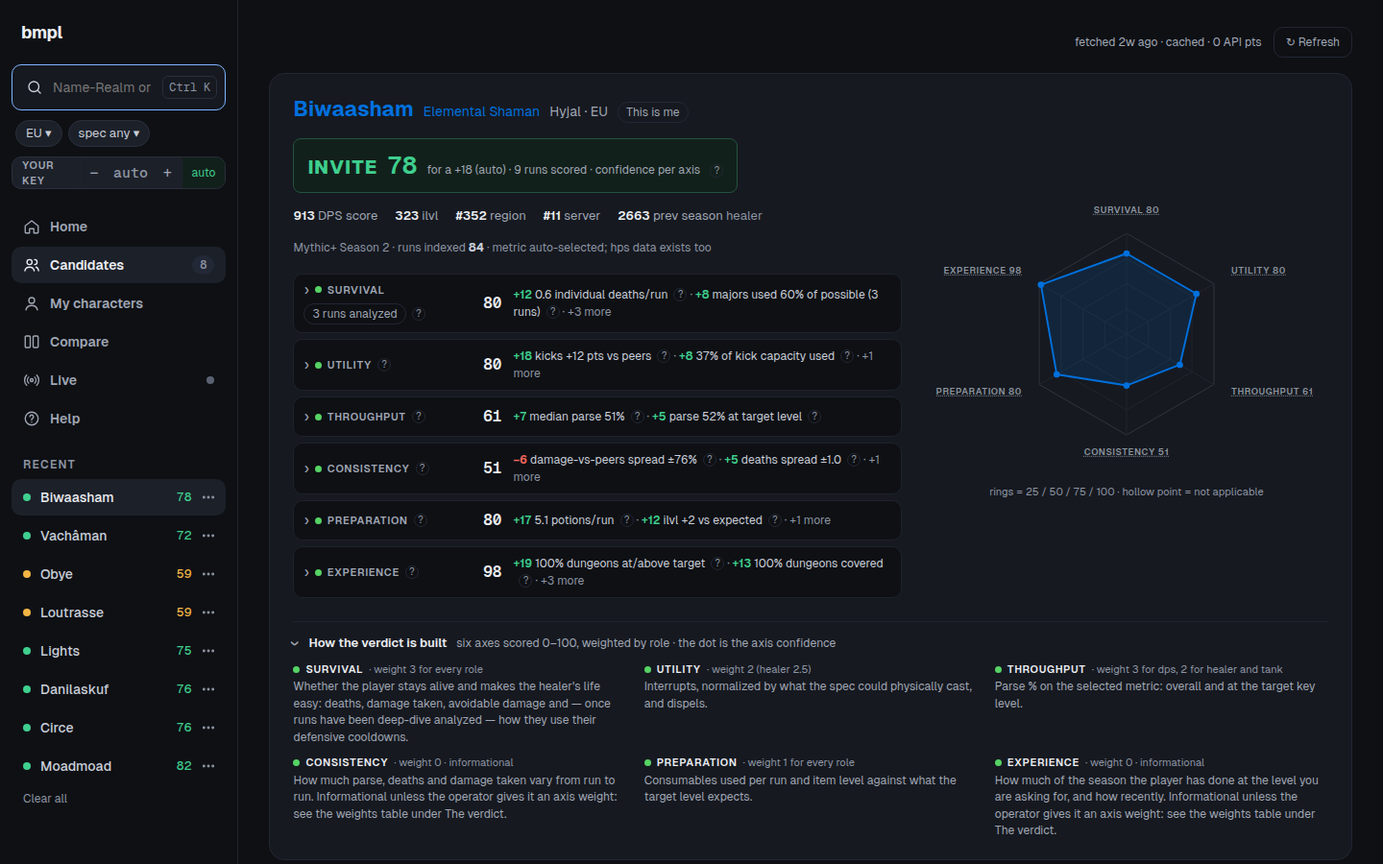
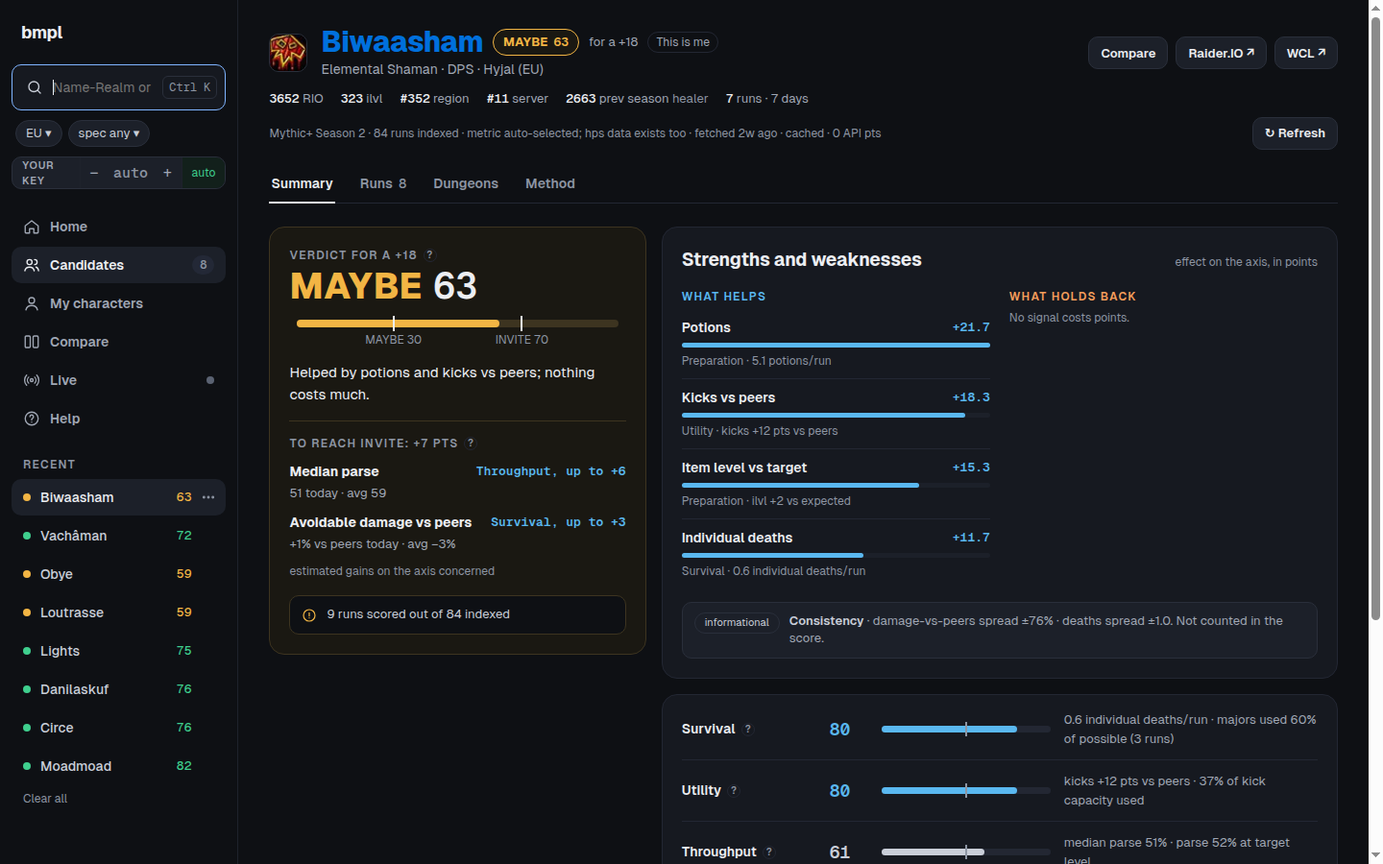
docs: redesign phase 2
Spec status and "Phase 2 notes" (the plan's five deltas, cached analyses
and re-evaluation on every history read with the row's verdict/score
following, class/spec names English in the French UI); web-front.md maps
components/candidate/, the phase 2 view models and the candidate URL
state; AGENTS.md roadmap. README screenshots retaken from a local build
on cached data (Summary tab; Runs tab with an analysed run on the
timeline) with alt texts for five axes.

Claude-Session: https://claude.ai/code/session_01GbKBtx9kHiwVNWMkxiP94m

diff --git a/docs/agents/web-front.md b/docs/agents/web-front.md
@@ -6,7 +6,7 @@ Vite 8 + React 19, TypeScript strict with `verbatimModuleSyntax`. Spec: `docs/su
 
 - **Types only from `src/`**: `import type { … } from "@shared/…"` via `web/src/types.ts` (re-export hub — add new shared types there). Runtime exception: `src/wow/classes.ts` (class names + colours). Anything else runtime from `src/` breaks the Vite build or drags Bun-only code into the browser. `web/src/lib/admin.ts`'s `AUDIT_KIND_OF` is a deliberate duplicate of `src/hosted/audit.ts`'s `ACTION_KIND` — the types-only rule means the front cannot import the runtime map, so it re-declares it (TypeScript catches a missing `AuditAction` key since the type comes from `@shared/…`; keep the two in sync by hand when an action is added).
 - **No new runtime dependencies**: only `react` and `react-dom`. No router (the page is `pageOf(location.pathname)`, each page a full navigation; the profile shown derives from tabs/history state in `App.tsx`), no state library, no CSS framework, no component library, no icon package.
-- **View models are pure and tested** (`web/src/lib/*.ts` + sibling `*.test.ts`): every non-trivial transformation of `LookupPayload` into something displayable lives there — `verdict.ts` (axis order/labels, confidence colours), `axes.ts` (`AxisRowModel`; `axisInfo`/`axisWeightLabel` turn `GET /api/docs?lang=` into the "What's measured" callout text and weight line — nothing about weights or sub-signals is hard-coded in the front; `web/src/docs.tsx` `DocsProvider`/`useDocs` fetches it once per page load and again whenever the UI locale changes, keeping the previous language's docs up while the next ones load), `radar.ts`, `tiles.ts`, `runs.ts`, `deepdive.ts` (panel model, cost estimate), `compare.ts`, `history.ts`, `keyLevel.ts`, `format.ts`, `session.ts` (user menu / quota line), `help.ts` (`/help` view models: `anchorOf`, `toc`, `curveTable`, `curvePath`, `roleWeights`, `axisIsInformational`, `fmtThresholds`, `faqEntries`, `axisNote`), `hostedMode.ts` (controls, `pageOf`/`Page` for `/`, `/candidate`, `/compare`, `/live`, `/settings`, `/privacy`, `/help`, `/me` and `/admin`, `candidateHref`, `proposalMode`, `adminAccess`, `accountAccess`, `deniedNotice`/`signInNote` for the four sign-in refusals), `account.ts` (issue #11: `clientCard(t, …)` — the WCL-client card's state/status/dot from `OwnClientView`, `canDelete`/`DELETE_WORD` for the typed-word confirmation, `storedDataText(t)`), `quota.ts` (labels, tooltips, 429 bodies and their toast message `quotaOrBudgetMessage(t, failure)`), `regions.ts` (the front's own copy of `src/wow/regions.ts`'s values: `REGIONS`, `isRegion`, `regionLabel`, `effectiveRegion`), `suggest.ts` (the search field's suggestions, canvas "suggest", `SuggestChosen`: `suggestionsOf` merges My characters, history newest first and, locally, `GET /api/known-characters` into one row per character with its class, spec, `fill` ("Name-Realm" rebuilt from the slug, the realm's spaces kept; Raider.IO's spelling is only shown, never filled) and newest `historyKey`; `matchSuggestions` (name prefix, or that name on realms starting with what follows the first "-" or space; no list under 2 letters, for a Raider.IO link or the full Name-Realm of the only row left; 8 rows), `ghostOf` (the grey completion), `typedNameLength`, `classLine`), `header.ts` (the chips under the sidebar's search field: `regionMenu`/`specMenu`/`OTHER_SPEC`, `regionChipLabel`/`specChipLabel`; the EN / FR chip's `localeMenu`), `shell.ts` (the frame: `navItems` — the six links, the candidate count, the Live dot — `recentRows` (Récents = history, verdict dot and score from the history row), `recentList` (the sidebar's Récents: the first 8, the active entry as an extra row when further down, the whole history when expanded), `accountView`), `palette.ts` (the Ctrl K palette: `paletteSections` — recent characters, My characters, actions, filtered by the query; a lookup row never shows a cost — `moveIndex`, `rowAt`), `home.ts` (the connected home page: `homeSelf` — this week, strengths / costs, best timed key per week — `progressText`, `progressPoints`, `scoreTone`, `candidateRows`), `landing.ts` (`landingView`: notices, steps, facts; `PREVIEW_AXES`, the static preview), `admin.ts` (budget gauge, top consumers, hourly bars, proposal cards/diff rows, decided lines, user/invite rows incl. `bannedAt`/`ownClient`, instance panel, `auditRow`/`auditDetail` for the Audit section incl. `account_delete`/`wcl_client_set`/`wcl_client_remove`/`bnet_link`/`bnet_unlink`/`bnet_character_removed`/`characters_reset`/`user_ban`/`user_unban`), `self.ts` (the self-review result tabs, spec `docs/superpowers/specs/2026-10-09-self-review-pillars-design.md`: `PILLAR_ORDER`, `RESULT_TABS`, `scoreBand` (75 / 55 / 45), `trendView`, `pillarCards` — the 4-week window's pillars, else the lookup's own `evaluation.pillars` — `basisText`, `workOnRows`, `verdictLine`, `headLine`, `seasonHeader`/`dungeonRows`/`dungeonPanel` for the Dungeons grid, `runOf`/`runDetail` for the Runs tab, `syncCard`/`syncProgress` (`controlOnly`: a season synced before crowd control existed only needs it), `controlView` (a run's crowd control, canvas "control" run detail B), `resultView` (owner's view or vetting view), and "This is me": `MAX_ME`, `isMe`, `toggleMe`, `meChip`), `me.ts` (the personal page: `parseEntry` — Name-Realm or a Raider.IO link — `addCharacter`/`makeMain`/`removeAt`, `historyKeyFor` (the newest history tab of a character), `lookupQuery`, `mineRequest` (whether a typed Name-Realm or Raider.IO link is one of My characters: `runLookup` sends it as the lookup's `mine`), `seasonLine`, `mainPillars`, `rowCells`, and `slugOf`, the front's copy of `src/util.ts`'s `realmToSlug`, pinned on the same samples by `me.test.ts`), `bnet.ts` (Battle.net linking on `/me`, spec `docs/superpowers/specs/2026-10-11-battlenet-linking-design.md`: `BNET_CODES` — the server's `BnetCallbackCode`s, pinned to the same set by `bnet.test.ts` — and `bnetCodeOf` (`?bnet=`, read at module level in `App.tsx` before the boot effect erases the query), `bnetNotice`/`pickFailureNotice` (the spec's "Error handling" wording, the pick's 410 as `expired`), `pickKey` (region + Blizzard id), `togglePick` (tick order, the first is the main, null when 20 are ticked), `makeMainPick`, `pickerRows`, `pickHeader`, `pickCount`, `saveLabel`, `picksBody` (the `PUT /api/bnet/characters` body), `picksFromList` ("Import again" ticks the list's Battle.net characters still in the import), `linkedLine`, `unlinkConfirm`, `removedNotice` (the 30-day check's removals)). Components (`web/src/components/*.tsx`) stay thin: map a model to markup, hold local UI state only. Tests must not import React or the DOM (they run under `bun test` from the repo root). The registry `src/evaluation/docs.ts` must be updated with any new sub-signal — `test/evaluation/docs.test.ts` enforces it.
+- **View models are pure and tested** (`web/src/lib/*.ts` + sibling `*.test.ts`): every non-trivial transformation of `LookupPayload` into something displayable lives there — `verdict.ts` (axis order/labels, confidence colours), `axes.ts` (`AxisRowModel`; `axisInfo`/`axisWeightLabel` turn `GET /api/docs?lang=` into the "What's measured" callout text and weight line — nothing about weights or sub-signals is hard-coded in the front; `web/src/docs.tsx` `DocsProvider`/`useDocs` fetches it once per page load and again whenever the UI locale changes, keeping the previous language's docs up while the next ones load), `radar.ts`, `tiles.ts`, `runs.ts`, `deepdive.ts` (panel model, cost estimate), `compare.ts`, `history.ts` (incl. `withPayloadSummary`: a loaded payload's re-evaluated verdict/score patched into its Récents item), `keyLevel.ts`, `format.ts`, `session.ts` (user menu / quota line), `help.ts` (`/help` view models: `anchorOf`, `toc`, `curveTable`, `curvePath`, `roleWeights`, `axisIsInformational`, `fmtThresholds`, `faqEntries`, `axisNote`), `hostedMode.ts` (controls, `pageOf`/`Page` for `/`, `/candidate`, `/compare`, `/live`, `/settings`, `/privacy`, `/help`, `/me` and `/admin`, `candidateHref`, `proposalMode`, `adminAccess`, `accountAccess`, `deniedNotice`/`signInNote` for the four sign-in refusals), `account.ts` (issue #11: `clientCard(t, …)` — the WCL-client card's state/status/dot from `OwnClientView`, `canDelete`/`DELETE_WORD` for the typed-word confirmation, `storedDataText(t)`), `quota.ts` (labels, tooltips, 429 bodies and their toast message `quotaOrBudgetMessage(t, failure)`), `regions.ts` (the front's own copy of `src/wow/regions.ts`'s values: `REGIONS`, `isRegion`, `regionLabel`, `effectiveRegion`), `suggest.ts` (the search field's suggestions, canvas "suggest", `SuggestChosen`: `suggestionsOf` merges My characters, history newest first and, locally, `GET /api/known-characters` into one row per character with its class, spec, `fill` ("Name-Realm" rebuilt from the slug, the realm's spaces kept; Raider.IO's spelling is only shown, never filled) and newest `historyKey`; `matchSuggestions` (name prefix, or that name on realms starting with what follows the first "-" or space; no list under 2 letters, for a Raider.IO link or the full Name-Realm of the only row left; 8 rows), `ghostOf` (the grey completion), `typedNameLength`, `classLine`), `header.ts` (the chips under the sidebar's search field: `regionMenu`/`specMenu`/`OTHER_SPEC`, `regionChipLabel`/`specChipLabel`; the EN / FR chip's `localeMenu`), `shell.ts` (the frame: `navItems` — the six links, the candidate count, the Live dot — `recentRows` (Récents = history, verdict dot and score from the history row), `recentList` (the sidebar's Récents: the first 8, the active entry as an extra row when further down, the whole history when expanded), `accountView`), `palette.ts` (the Ctrl K palette: `paletteSections` — recent characters, My characters, actions, filtered by the query; a lookup row never shows a cost — `moveIndex`, `rowAt`), `home.ts` (the connected home page: `homeSelf` — this week, strengths / costs, best timed key per week — `progressText`, `progressPoints`, `scoreTone`, `candidateRows`), `landing.ts` (`landingView`: notices, steps, facts; `PREVIEW_AXES`, the static preview), the candidate profile's models (redesign phase 2, plan `docs/superpowers/plans/2026-10-12-ui-redesign-phase-2.md`): `profile.ts` (the URL state `candState`/`candHref`/`candSwitchHref`/`candInitial`, `runKeyOf`, `tabAfter` for the tab strip's keys, `CAND_TAB_EVENT`, `compareHref`, and `profileHeader` — the compact header's name, verdict, facts and links), `synthesis.ts` (`synthesisView`: the verdict block, "what would flip it", strengths and weaknesses, the informational axes, the axes table; an axis whose role weight is 0 is informational and never a strength, a weakness or a step), `runList.ts` (`runListView`: one grid row per run, the two filters "best" / "deaths", the sort, the batch-analyse line; `pickRun`), `timeline.ts` (`timelineView`: the track, one lane per ticked layer, the callout and "Moments clés"; `LAYER_ORDER`, `DEFAULT_LAYERS`, `stepEvent`/`shownEvent` for the arrow keys and the picked death), `runView.ts` (`runDetail`: the selected run's header, stats, defensives used / possible), `runSheet.ts` (`sheetRuns`, `sheetLayout` — 72 % of the viewport, ≥ 960 px when it allows, the list at its left when 240 px remain — `trapFocus`, `sheetTabAfter`), `dungeonGrid.ts` (`dungeonGrid`: one row per dungeon's best run with heat-tinted two-line cells, the inline detail, the notes strip), `method.ts` (`methodView`: the path, the raw-score waterfall, the axis cards against the average player, the raw → percentile curve with the verdict zones, `rawScore`, `curveGeometry`; everything from `GET /api/docs`), `admin.ts` (budget gauge, top consumers, hourly bars, proposal cards/diff rows, decided lines, user/invite rows incl. `bannedAt`/`ownClient`, instance panel, `auditRow`/`auditDetail` for the Audit section incl. `account_delete`/`wcl_client_set`/`wcl_client_remove`/`bnet_link`/`bnet_unlink`/`bnet_character_removed`/`characters_reset`/`user_ban`/`user_unban`), `self.ts` (the self-review result tabs, spec `docs/superpowers/specs/2026-10-09-self-review-pillars-design.md`: `PILLAR_ORDER`, `RESULT_TABS`, `scoreBand` (75 / 55 / 45), `trendView`, `pillarCards` — the 4-week window's pillars, else the lookup's own `evaluation.pillars` — `basisText`, `workOnRows`, `verdictLine`, `headLine`, `seasonHeader`/`dungeonRows`/`dungeonPanel` for the Dungeons grid, `runOf`/`runDetail` for the Runs tab, `syncCard`/`syncProgress` (`controlOnly`: a season synced before crowd control existed only needs it), `controlView` (a run's crowd control, canvas "control" run detail B), `resultView` (owner's view or vetting view), and "This is me": `MAX_ME`, `isMe`, `toggleMe`, `meChip`), `me.ts` (the personal page: `parseEntry` — Name-Realm or a Raider.IO link — `addCharacter`/`makeMain`/`removeAt`, `historyKeyFor` (the newest history tab of a character), `lookupQuery`, `mineRequest` (whether a typed Name-Realm or Raider.IO link is one of My characters: `runLookup` sends it as the lookup's `mine`), `seasonLine`, `mainPillars`, `rowCells`, and `slugOf`, the front's copy of `src/util.ts`'s `realmToSlug`, pinned on the same samples by `me.test.ts`), `bnet.ts` (Battle.net linking on `/me`, spec `docs/superpowers/specs/2026-10-11-battlenet-linking-design.md`: `BNET_CODES` — the server's `BnetCallbackCode`s, pinned to the same set by `bnet.test.ts` — and `bnetCodeOf` (`?bnet=`, read at module level in `App.tsx` before the boot effect erases the query), `bnetNotice`/`pickFailureNotice` (the spec's "Error handling" wording, the pick's 410 as `expired`), `pickKey` (region + Blizzard id), `togglePick` (tick order, the first is the main, null when 20 are ticked), `makeMainPick`, `pickerRows`, `pickHeader`, `pickCount`, `saveLabel`, `picksBody` (the `PUT /api/bnet/characters` body), `picksFromList` ("Import again" ticks the list's Battle.net characters still in the import), `linkedLine`, `unlinkConfirm`, `removedNotice` (the 30-day check's removals)). Components (`web/src/components/*.tsx`) stay thin: map a model to markup, hold local UI state only. Tests must not import React or the DOM (they run under `bun test` from the repo root). The registry `src/evaluation/docs.ts` must be updated with any new sub-signal — `test/evaluation/docs.test.ts` enforces it.
 - **`web/src/lib/live/`** (game-integration spec: `docs/superpowers/specs/2026-09-22-game-integration-design.md`) is the Live panel's own pipeline, each file pure and tested: `codec.ts` (`STRIP`, `encodeFrame`/`decodeFrame`, `encodeCells`/`decodeCells`, `chunkRoster` — the strip contract shared byte-for-byte with the addon's `addon/bmpl/encode.lua`, pinned by `addon/bmpl/tests/vectors.txt`), `scan.ts` (reads a captured video frame's pixels into cells — thresholds are measured, never fixed: a local light/dark envelope finds the marker, the marker's own levels read the cells, so the addon can paint two greys), `roster.ts` (`parseRoster`, `RosterAssembler`, `sortApplicants`/`filterApplicants`, the `RosterPlayer`/`Roster`/`CachedVerdict` types), `panel.ts` (`panelView`, `autoQueue`, `verdictScope` — the (key level, region) pair a cached verdict belongs to, which `App.tsx` uses to empty the verdict map when the member moves their key — and the sort/class `ChipMenu` rows), `useWowCapture.ts` (the capture hook: `getDisplayMedia`, the scan loop, `liveState` deriving the chip's off/waiting/live/reconnect/error states). Consumed by `LiveChip.tsx` (the `/live` page header's chip + connect dialog) and `LivePanel.tsx` (the roster view), both thin per the rule above.
 - **Tokens** from `web/src/styles/tokens.css` (`--bg --card --inset --border --text --muted --faint --link --green --yellow --warn --red --orange --button --mono --radius --radius-lg` …). Never a raw hex in a component or in `app.css`; if a new value is genuinely needed, add a token with a comment saying where it came from. `--discord` is the only brand colour, used on the sign-in button only.
 - **English and French, from the dictionaries.** Copy is product text: short, factual, no exclamation marks. See "Strings and locales" below.
@@ -74,8 +74,8 @@ left, `.shell-main` beside it, whose `.shell-content` column is at most 1120 px 
 comparison is shown (`:has(.content-result)`: 1200 px, 1640 px in `:root:has(.content-result)`). At 1000 px and below
 the sidebar stacks above the content (flex wrap: no sticky, no `100vh`). The connected home page (`HomePage`) and the
 landing are outside the frame and have their own centred column. No page may scroll horizontally (spec decision 8);
-phase 1 left the old content views (radar, run rows, compare table, help tables) as they were, and phases 2–4
-redraw them. Inside the result page: three tabs (Overview, Dungeons, Runs); the Overview stacks the verdict block,
+phase 1 left the old content views (radar, run rows, compare table, help tables) as they were; phase 2 redrew
+the candidate profile (grids that fit their column, rows stacked into cards at 390 px), phases 3–4 redraw the rest. Inside the result page: three tabs (Overview, Dungeons, Runs); the Overview stacks the verdict block,
 then the signal tiles and Raider.IO (`.overview-rest`); the Dungeons tab puts the grid beside its detail panel
 (`.side`, 440 px) and stacks them under 1100 px, where the pillar cards drop to two columns. `--gutter` is 0 inside
 the frame.
@@ -84,4 +84,4 @@ the frame.
 
 **Pages** (no router: `pageOf(location.pathname)`, each a full navigation served by `src/web-static.ts`): `/` the connected home page, `/candidate` (the result page; `?open=<history key>` names the profile, Récents and the palette switch profiles in place with `history.replaceState`; a pre-redesign `/?open=` link is redirected here), `/compare` (pick 2–3 history entries), `/live` (the Live panel; Live and the candidate page are the two pages that switch profiles in place, everything else navigates to `/candidate`), `/me`, `/help`, `/settings`, `/privacy`, `/admin`. A URL never starts a lookup: `?q=` only fills the search field.
 
-`Shell` (`components/shell/*`, redesign spec decision 1, mockup `F-Palette`: the frame around every in-app page; one window `keydown` opens the palette on Ctrl K / Cmd K unless another text field has focus) · `Sidebar` (logo; the 48 px search form — `SearchInput`: the field, its grey completion (Tab) and the suggestion list (↑↓, Enter opens the row: its history tab at 0 pts, else a lookup in the row's region; Esc closes), the arrow submit or the Ctrl K hint when empty; under it the region and spec chips (`ChipMenu`), the metric chip, `KeyStepper` (your key), the "Other…" spec / metric row, the busy and SSE-disconnected notes; the navigation from `navItems` — Home, Candidates with the history count, My characters, Compare, Live with its dot, Help; **Récents** (`recentList`: verdict dot, name, score, a "⋯" menu with Remove; "Show N more" / "Show less" past 8, Clear all); the account block: hosted `UserMenu` — avatar, quota (or "Your WCL client · N / L pts" when the member has one) or the exhausted line, Help, My characters, Settings, Admin, Sign out — locally `LocalAccount` — the EN / FR chip, the clipboard watch, Re-configure, Quit) · `Palette` (the Ctrl K dialog: `paletteSections`, ↑↓ across sections, Enter runs the row — open a history entry at 0 pts, look a character up, or go to a page — Escape or a click outside closes and focus returns) · `HomePage` (`components/home/HomePage.tsx`, decision 2, mockup `F-Accueil`, outside the frame: slim top bar with the account controls (`LocalAccount compact` locally), split hero — search with its region chip, and "You this week" for the main character (`useSeason`, 0 pts: runs, best timed key, timed / scored, the points to work on, the group-leader verdict line from the history row) — then "Your progress" (`homeSelf`'s pillars, strengths, costs and the best-timed-key line) beside "Your candidates" (`candidateRows`), then the other characters; it reads only, a lookup starts from its search field alone) · `Landing` (`components/Landing.tsx`, mockup `F-Landing`: a signed-out visitor of a hosted instance — `GET /api/me` 401 — sees it instead of the app; the Discord sign-in, the callback's refusals from `deniedNotice` — invite id with its copy button, guild, banned, rate — and `?login=failed`, three steps, a static preview built from markup (no fetch, Consistency marked informational), the WCL points and data facts; locally there is no landing) · `ChipMenu` (`lib/header.ts`'s `MenuItem[]` mapped to a popup menu that closes on pick/outside click/Escape) · `Detail` picks the view with `resultView` (phase-2 spec `docs/superpowers/specs/2026-10-10-self-review-control-design.md`, decision 6): a character outside My characters opens the **vetting view**, the result page as before phase 1 (`VerdictHero` with `MeChip` at the end of its name line through `identityExtra` — canvas "control", `ControlVettingA`; local mode only, since hosted characters come from Battle.net and `meChip` returns null for one not on the list, canvas "bnet" chip 1 — then `.detail-rest`: `SignalTiles`, `DungeonRuns`, `RioSection`; no `GET /api/season`); one of the member's own characters opens the **owner's view** (canvas "self-review", variants A + C) = `ResultHead` (`components/self/*`: name, realm, `MeChip` ("This is me"), the season line, the sync button) + `SyncCard` (estimate before spending, progress, the no-client guide when hosted) + three tabs: **Overview** (`Overview`: work on first, the five pillar cards, the verdict line, then `VerdictHero` — verdict, radar, `ScoreDrivers` — the diverging-bar "What makes this score" block, `AxisRows` with expandable "What's measured" callouts, `AxisLegend` under the radar — then `SignalTiles` and `RioSection`), **Dungeons** (`DungeonsTab`: the season header row and one row per dungeon, five pillar cells and the overall — the axes' weighted mean before the percentile curve (`WindowView.overall`), not the badge score — beside `DungeonPanel`: what hits, what kills, what went through, the crowd control landed there, a link to that dungeon's runs), **Runs** (`RunsTab`: `DungeonRuns` — best run per dungeon, per-run Analyze / `RunDeepDive` panel with table corrections; hosted wording and proposals footer — until the season store has runs, then every run of the season newest first, old runs marked stale, `RunDetailExtra` for killing hits, avoidable abilities, casts that went through and the run's crowd control — canvas "control" run detail B: the rate per 10 minutes against the spec's median, then the spells by category, from `controlView`) · **`/me`** (`MePage`, `components/me/*`, canvas "me" variant C, served by `src/web-static.ts`; the sidebar's My characters item and a user-menu item lead to it): locally the add field (`parseEntry`); hosted (canvas "bnet", `BnetPickA` + `BnetDetails`) `GET /api/bnet` once on mount (0 pts), then `BnetLinkCard` (not linked: **Link Battle.net**, a top-level navigation to `/auth/bnet/start`) or `BnetLinked` (BattleTag, linked date, **Import again**, **Unlink** with its confirmation), `BnetPicker` (picker A, shown while an import is pending: ticks, "make main", the count against 20, Save → `PUT /api/bnet/characters`, whose answer goes through `adoptCharacters`) and `BnetNote` lines (the `?bnet=` notice, a refused pick, the 30-day removal with **Import again**); then `MainCard` for the main character (its pillars over the last 4 weeks or the season, trends, the first point to work on), one `OtherRow` per other character, `SyncButton` (the estimate on the button). Open goes to `/candidate?open=<history key>` (`candidateHref`) when the character has a history tab (0 pts), else Look up goes to `/?q=<the character's Raider.IO link>` (`lookupQuery`; the link carries its own region), which only fills the search field; on `/candidate`, `App`'s boot opens `?open=` when it names a history entry, else the newest one · `Compare` (2–3 tabs) · `Setup` (credentials) · `Toast` · `KeyStepper` · `Radar` · `SpellLink` · `Avatar` (Discord image with initials fallback; used by `UserMenu` and the admin rows) · `AdminPage` (`components/admin/*`: `Gauge`, `Queue`, `Users` — role, revoke, ban/unban, `Invites`, `Instance`, `Audit`, `Usage`, `Forbidden`) at `/admin`, data via `api.admin.*`, one `reload()` after every action. `Audit` owns its own data (kind chips with counts, keyset-paged rows, `GET /api/admin/audit`) rather than going through `AdminPage`'s `reload()`; so does `Usage` (canvas "usage", variants A + B behind a Table / Categories switch kept in `localStorage` `bmpl.adminUsageView`; `GET /api/admin/features`, view models `usageKpis`/`usageChips`/`usageTable`/`usageCards` in `lib/admin.ts`). **Usage tracking:** `track(event)` from `web/src/usage.ts` is safe in any component; it counts only after `App` called `startUsageTracking(true)` (hosted, signed in). The queue is `lib/usage.ts` (`createTracker`, pure and tested): flush at 20 events, every 15 s and on page hide with `fetch` keepalive. Add a `track` call only for an interface event of the catalogue (`src/hosted/usage-catalog.ts`); an action that already calls an API is counted by the server. **`/settings`** (issue #11, `components/account/*`, any signed-in member — `accountAccess`): `SettingsPage` composes `WclClientCard` (none/set/disabled states from `clientCard`, the id/secret form, Verify again / Replace / Remove) and `AccountCard` (the stored-data paragraph, typed-word "delete my account" via `canDelete`/`DELETE_WORD`, calls `DELETE /api/me`). **`/privacy`** (`PrivacyPage`): one static page, readable signed out, text driven by `status.operator`/`guildRequired`. **`/help`** (`HelpPage`, `components/help/*`: `HelpToc`, `AxisSection`, `SubSignalCard`, `CurveChart`, `Faq`), readable signed out (a bare page before the sign-in wall) or inside the main layout otherwise, data via `GET /api/docs?lang=`; `HelpLink` (`components/HelpLink.tsx`, the "?" glyph, `help-link` class) links to it from the verdict badge, each axis row, each evidence line, the run list header and the deep-dive panel header, plus Help in the sidebar and the user menu.
+`Shell` (`components/shell/*`, redesign spec decision 1, mockup `F-Palette`: the frame around every in-app page; one window `keydown` opens the palette on Ctrl K / Cmd K unless another text field has focus) · `Sidebar` (logo; the 48 px search form — `SearchInput`: the field, its grey completion (Tab) and the suggestion list (↑↓, Enter opens the row: its history tab at 0 pts, else a lookup in the row's region; Esc closes), the arrow submit or the Ctrl K hint when empty; under it the region and spec chips (`ChipMenu`), the metric chip, `KeyStepper` (your key), the "Other…" spec / metric row, the busy and SSE-disconnected notes; the navigation from `navItems` — Home, Candidates with the history count, My characters, Compare, Live with its dot, Help; **Récents** (`recentList`: verdict dot, name, score, a "⋯" menu with Remove; "Show N more" / "Show less" past 8, Clear all); the account block: hosted `UserMenu` — avatar, quota (or "Your WCL client · N / L pts" when the member has one) or the exhausted line, Help, My characters, Settings, Admin, Sign out — locally `LocalAccount` — the EN / FR chip, the clipboard watch, Re-configure, Quit) · `Palette` (the Ctrl K dialog: `paletteSections`, ↑↓ across sections, Enter runs the row — open a history entry at 0 pts, look a character up, or go to a page — Escape or a click outside closes and focus returns) · `HomePage` (`components/home/HomePage.tsx`, decision 2, mockup `F-Accueil`, outside the frame: slim top bar with the account controls (`LocalAccount compact` locally), split hero — search with its region chip, and "You this week" for the main character (`useSeason`, 0 pts: runs, best timed key, timed / scored, the points to work on, the group-leader verdict line from the history row) — then "Your progress" (`homeSelf`'s pillars, strengths, costs and the best-timed-key line) beside "Your candidates" (`candidateRows`), then the other characters; it reads only, a lookup starts from its search field alone) · `Landing` (`components/Landing.tsx`, mockup `F-Landing`: a signed-out visitor of a hosted instance — `GET /api/me` 401 — sees it instead of the app; the Discord sign-in, the callback's refusals from `deniedNotice` — invite id with its copy button, guild, banned, rate — and `?login=failed`, three steps, a static preview built from markup (no fetch, Consistency marked informational), the WCL points and data facts; locally there is no landing) · `ChipMenu` (`lib/header.ts`'s `MenuItem[]` mapped to a popup menu that closes on pick/outside click/Escape) · **Candidate profile** (`components/candidate/*`, redesign phase 2, mockups `F-Synthese`, `F-Runs`, `F-Run`, `F-Donjons`, `F-Methode`): `CandidateProfile` (the header, the four tabs as a WAI-ARIA tablist — ← → Home End — and the tab shown; it owns the URL state `/candidate?open=<key>&tab=synthesis|runs|dungeons|method&run=<report:fight>&sheet=1`, written with `history.replaceState`, defaults left out; with `urlKey: null` — the Live page — the state lives in memory and the URL is never touched; a reload keeps tab, run and sheet; switching profile keeps the tab and drops run and sheet) · `ProfileHeader` (class icon, name, verdict, facts, Compare / Raider.IO / WCL, Refresh, `MeChip`) · `SynthesisTab` · `RunsTab` (filters, batch "Analyse the N others", the run grid, then `RunPanel`: the selected run's header, "Open full view", `Timeline`, `RunFacts` — `Moments` and `DefensivesUsed`) · `Timeline` (shared by the panel and the sheet: the layer checklist of `aria-pressed` buttons, a disabled layer carrying its reason and, where it applies, "Analyse · 3 pts"; only death markers take the focus, ← → Home End walk them) · `RunSheet` (the modal over the page: the run list dimmed at its left, focus trapped, Escape / close / scrim close it and focus returns to "Open full view"; opening it reads only) · `CandDungeons` (the notes strip, then the best run per dungeon with its inline detail; "view" opens that run on the Runs tab) · `MethodTab` (+ `MethodCurve`). The member's own characters keep the owner view below (`OwnerDetail`) until phase 3 · `Detail` picks the view with `resultView` (phase-2 spec `docs/superpowers/specs/2026-10-10-self-review-control-design.md`, decision 6): a character outside My characters opens the **vetting view** = `CandidateProfile` above (no `GET /api/season`); one of the member's own characters opens the **owner's view** (canvas "self-review", variants A + C) = `ResultHead` (`components/self/*`: name, realm, `MeChip` ("This is me"), the season line, the sync button) + `SyncCard` (estimate before spending, progress, the no-client guide when hosted) + three tabs: **Overview** (`Overview`: work on first, the five pillar cards, the verdict line, then `VerdictHero` — verdict, radar, `ScoreDrivers` — the diverging-bar "What makes this score" block, `AxisRows` with expandable "What's measured" callouts, `AxisLegend` under the radar — then `SignalTiles` and `RioSection`), **Dungeons** (`DungeonsTab`: the season header row and one row per dungeon, five pillar cells and the overall — the axes' weighted mean before the percentile curve (`WindowView.overall`), not the badge score — beside `DungeonPanel`: what hits, what kills, what went through, the crowd control landed there, a link to that dungeon's runs), **Runs** (`RunsTab`: `DungeonRuns` — best run per dungeon, per-run Analyze / `RunDeepDive` panel with table corrections; hosted wording and proposals footer — until the season store has runs, then every run of the season newest first, old runs marked stale, `RunDetailExtra` for killing hits, avoidable abilities, casts that went through and the run's crowd control — canvas "control" run detail B: the rate per 10 minutes against the spec's median, then the spells by category, from `controlView`) · **`/me`** (`MePage`, `components/me/*`, canvas "me" variant C, served by `src/web-static.ts`; the sidebar's My characters item and a user-menu item lead to it): locally the add field (`parseEntry`); hosted (canvas "bnet", `BnetPickA` + `BnetDetails`) `GET /api/bnet` once on mount (0 pts), then `BnetLinkCard` (not linked: **Link Battle.net**, a top-level navigation to `/auth/bnet/start`) or `BnetLinked` (BattleTag, linked date, **Import again**, **Unlink** with its confirmation), `BnetPicker` (picker A, shown while an import is pending: ticks, "make main", the count against 20, Save → `PUT /api/bnet/characters`, whose answer goes through `adoptCharacters`) and `BnetNote` lines (the `?bnet=` notice, a refused pick, the 30-day removal with **Import again**); then `MainCard` for the main character (its pillars over the last 4 weeks or the season, trends, the first point to work on), one `OtherRow` per other character, `SyncButton` (the estimate on the button). Open goes to `/candidate?open=<history key>` (`candidateHref`) when the character has a history tab (0 pts), else Look up goes to `/?q=<the character's Raider.IO link>` (`lookupQuery`; the link carries its own region), which only fills the search field; on `/candidate`, `App`'s boot opens `?open=` when it names a history entry, else the newest one · `Compare` (2–3 tabs) · `Setup` (credentials) · `Toast` · `KeyStepper` · `Radar` · `SpellLink` · `Avatar` (Discord image with initials fallback; used by `UserMenu` and the admin rows) · `AdminPage` (`components/admin/*`: `Gauge`, `Queue`, `Users` — role, revoke, ban/unban, `Invites`, `Instance`, `Audit`, `Usage`, `Forbidden`) at `/admin`, data via `api.admin.*`, one `reload()` after every action. `Audit` owns its own data (kind chips with counts, keyset-paged rows, `GET /api/admin/audit`) rather than going through `AdminPage`'s `reload()`; so does `Usage` (canvas "usage", variants A + B behind a Table / Categories switch kept in `localStorage` `bmpl.adminUsageView`; `GET /api/admin/features`, view models `usageKpis`/`usageChips`/`usageTable`/`usageCards` in `lib/admin.ts`). **Usage tracking:** `track(event)` from `web/src/usage.ts` is safe in any component; it counts only after `App` called `startUsageTracking(true)` (hosted, signed in). The queue is `lib/usage.ts` (`createTracker`, pure and tested): flush at 20 events, every 15 s and on page hide with `fetch` keepalive. Add a `track` call only for an interface event of the catalogue (`src/hosted/usage-catalog.ts`); an action that already calls an API is counted by the server. **`/settings`** (issue #11, `components/account/*`, any signed-in member — `accountAccess`): `SettingsPage` composes `WclClientCard` (none/set/disabled states from `clientCard`, the id/secret form, Verify again / Replace / Remove) and `AccountCard` (the stored-data paragraph, typed-word "delete my account" via `canDelete`/`DELETE_WORD`, calls `DELETE /api/me`). **`/privacy`** (`PrivacyPage`): one static page, readable signed out, text driven by `status.operator`/`guildRequired`. **`/help`** (`HelpPage`, `components/help/*`: `HelpToc`, `AxisSection`, `SubSignalCard`, `CurveChart`, `Faq`), readable signed out (a bare page before the sign-in wall) or inside the main layout otherwise, data via `GET /api/docs?lang=`; `HelpLink` (`components/HelpLink.tsx`, the "?" glyph, `help-link` class) links to it from the verdict badge, each axis row, each evidence line, the run list header and the deep-dive panel header, plus Help in the sidebar and the user menu.

diff --git a/docs/superpowers/specs/2026-10-11-ui-redesign-design.md b/docs/superpowers/specs/2026-10-11-ui-redesign-design.md
@@ -1,6 +1,6 @@
 # UI redesign: one shell, answer first, a run timeline with layers — design
 
-Status: approved 2026-10-11 ("go"), with the two open points as proposed: the Experience axis leaves the model (config version bump), and the redesign canvas replaces the old project canvas for this work. Mockups chosen over three rounds on the redesign canvas
+Status: approved 2026-10-11 ("go"), with the two open points as proposed: the Experience axis leaves the model (config version bump), and the redesign canvas replaces the old project canvas for this work. Phase 1 implemented 2026-10-11; phase 2 implemented 2026-10-12 (plan `docs/superpowers/plans/2026-10-12-ui-redesign-phase-2.md`, see "Phase 2 notes"). Mockups chosen over three rounds on the redesign canvas
 (https://claude.ai/artifact/WeznnnDkrDGMPyAsuSKBeE, page "4 · Final"); the chosen artboards are checked in under
 `docs/design/redesign/` (`F-*.dc.html`) with the mockup rules (`mockup-rules-round2.md`, `mockup-rules-round3.md`).
 This spec supersedes the visual parts of `2026-09-16-web-front-design.md` (screens, header, tabs) and the layout
@@ -140,6 +140,28 @@ are replaced by the sidebar's Récents list (remove = the row's "⋯" menu) and 
 Docs per phase: `docs/agents/web-front.md` (components map, design canvas pointer → the redesign canvas and
 `docs/design/redesign/`), `README.md` screenshots, `docs/scoring.md` (Experience removed, Régularité informatif),
 `docs/deep-dive.md` (cast times).
+
+## Phase 2 notes
+
+What phase 2 (the candidate profile) settled while it was planned and built; these override the sections above.
+
+1. **Contrôle layer**: `RunControl` (`src/signals/types.ts`) has counts per spell, no timestamps. The Contrôle layer is
+   shown disabled, reason "not fetched for a candidate" (vetting view); timed crowd control joins the "new WCL data"
+   follow-up below.
+2. **Par times** are not in the payload (only Raider.IO's recent runs carry `parMs`): the Donjons tab shows the upgrade
+   (`✓ +2`, depleted) and the clear time instead of a "marge timer" column.
+3. **"Tous les runs"** is not available for a candidate (the payload holds the best run per dungeon only): the Runs
+   filters are "Meilleur par donjon" and "Avec morts".
+4. `GET /api/docs` `config` gains `globalCurve` and `reference` (the Méthode tab's curve and average player).
+5. A user `evaluation.json` written before the change may still name `experience` (axes, weights, references): those
+   keys are dropped with a warning instead of failing the config.
+6. **Cached analyses on every read**: a local history read (`GET /api/history/:key`) and a local lookup cache hit go
+   through `withCachedAnalyses` like hosted reads do — today's cached analyses re-attached and the evaluation re-run
+   with today's config, 0 WCL pts, the stored payload untouched — so an entry saved before `castsAtMs` existed gains
+   it. The history row's verdict and score follow that re-evaluated result (`HistoryStore.syncSummary`; the front
+   patches its Récents item on load), so Récents and the profile header always agree.
+7. **Class and spec names stay English in the French UI**: the app has no localized class or spec names
+   (`src/wow/classes.ts` is English, WCL's names); the profile header and the run rows show them as WCL does.
 
 ## Out of scope / follow-ups
 

diff --git a/README.md b/README.md
@@ -12,7 +12,7 @@ season, death by death, kick by kick — and answers that one question.
 [![latest release](https://img.shields.io/github/v/release/triat/Better-mythic-plus-logs?label=release&color=2ea043)](https://github.com/triat/Better-mythic-plus-logs/releases/latest)
 [![in-game addon](https://img.shields.io/badge/in--game%20addon-download-5865F2)](https://github.com/triat/Better-mythic-plus-logs/releases/latest/download/bmpl-addon.zip)
 
-<img src="docs/images/verdict.png" alt="bmpl's verdict for a character: INVITE 78, the six axes with their evidence lines, and the radar" width="860">
+<img src="docs/images/verdict.png" alt="The Summary tab of a candidate profile: MAYBE 63 for a +18, what it would take to reach INVITE, strengths and weaknesses, and the five axes, Consistency marked informational" width="860">
 
 </div>
 
@@ -42,10 +42,11 @@ run per dungeon, not their one lucky +20.
 > verdict rather than inventing one. That is a real answer: this character has not logged enough for
 > anyone to judge them from logs.
 
-Underneath the verdict, every run is there on its own line — what killed them, how much avoidable
-damage they ate, how many interrupts they landed against how many they could have:
+Underneath the verdict, every run is there on its own row — how many times they died, how much avoidable
+damage they ate, how many interrupts they landed against how many they could have — and the run you
+pick opens on a timeline of its deaths, with what killed them and which defensives were ready:
 
-<img src="docs/images/runs.png" alt="Per-run detail: deaths, damage taken versus peers, avoidable damage, interrupts, dispels and consumables for each dungeon" width="860">
+<img src="docs/images/runs.png" alt="The Runs tab: the best run per dungeon with time, deaths, damage taken and avoidable damage versus peers, kicks and parse, and below it the selected run on a timeline with its death, the defensive state at that moment and the key moments" width="860">
 
 Pick the characters you play to follow them on [My characters](https://bmpl.riat.dev/me): from your linked
 Battle.net account on the hosted site, with "This is me" when you run bmpl yourself.

diff --git a/AGENTS.md b/AGENTS.md
@@ -92,6 +92,8 @@ entries removed at launch; local mode keeps the manual list. UI redesign phase 1
 `docs/superpowers/specs/2026-10-11-ui-redesign-design.md`, plan `docs/superpowers/plans/2026-10-11-ui-redesign-phase-1.md`,
 mockups `docs/design/redesign/`): new tokens, self-hosted Geist fonts, the sidebar frame (search, Récents, account) and
 the Ctrl K palette around every page, the pages `/candidate`, `/compare` and `/live`, the connected home page and the
-hosted landing; redesign phases 2–4 (candidate, owner, compare and Live) next. Also next: self-review phase 3 (own
+hosted landing. Redesign phase 2 is implemented (plan `docs/superpowers/plans/2026-10-12-ui-redesign-phase-2.md`): the
+candidate profile — compact header, Synthèse, Runs with the layered timeline, the run sheet, Donjons, Méthode — and the
+Experience axis removed; redesign phases 3–4 (owner, compare and Live) next. Also next: self-review phase 3 (own
 spec), WCL items in issue #24. Unscheduled ideas live
 as GitHub issues #12–#19.
